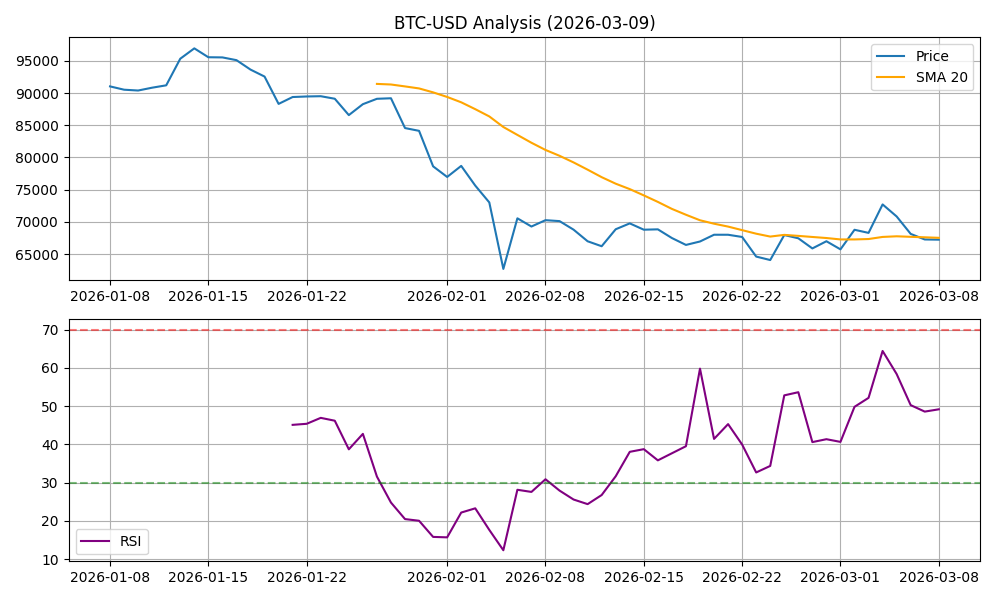
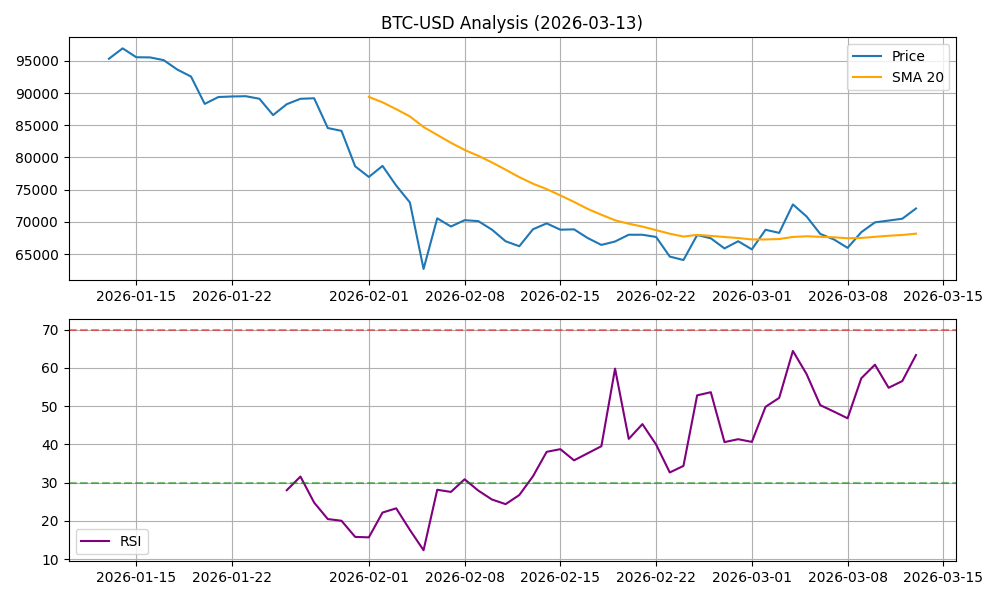
Update market analysis chart. Refreshed Dashboard.

diff --git a/README.md b/README.md
@@ -1,6 +1,6 @@
 # 🤖 Advanced Engineering Automation Dashboard
 
-**Auto-generated Report** | Last Updated: 2026-03-13 02:27:35
+**Auto-generated Report** | Last Updated: 2026-03-13 22:27:25
 
 > **Project Overview**
 > This project performs real data fetching and analysis.
@@ -11,7 +11,7 @@
 > *This is a legitimate "Data Collection & Analysis" project, not a fake commit generator.*
 
 ## 📊 Market Pulse (CryptoAnalyst)
-> 2026-03-09 02:27:09.356702: BTC $67240.76 | RSI: 49.17
+> 2026-03-13 22:27:25.368685: BTC $72076.58 | RSI: 63.38
 
 ![BTC Analysis](data/btc_analysis.png)
 
